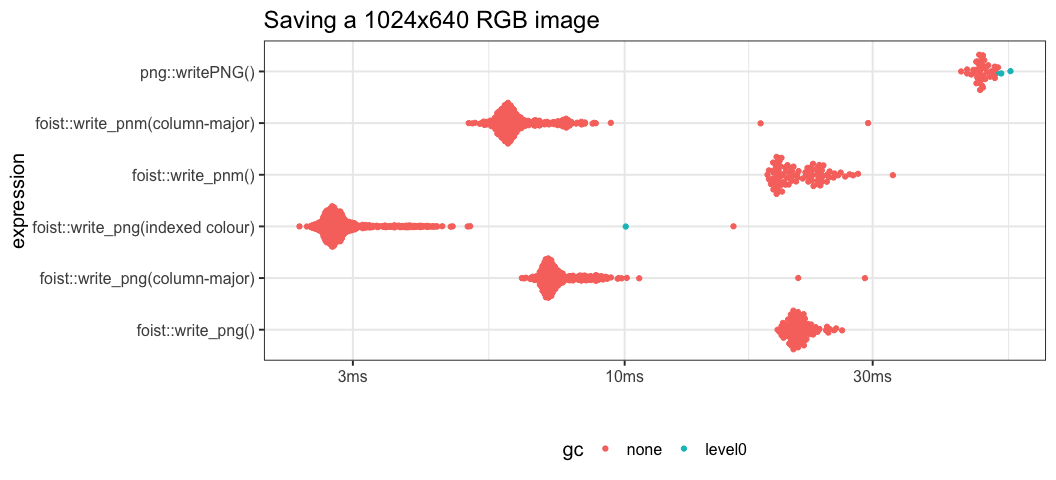
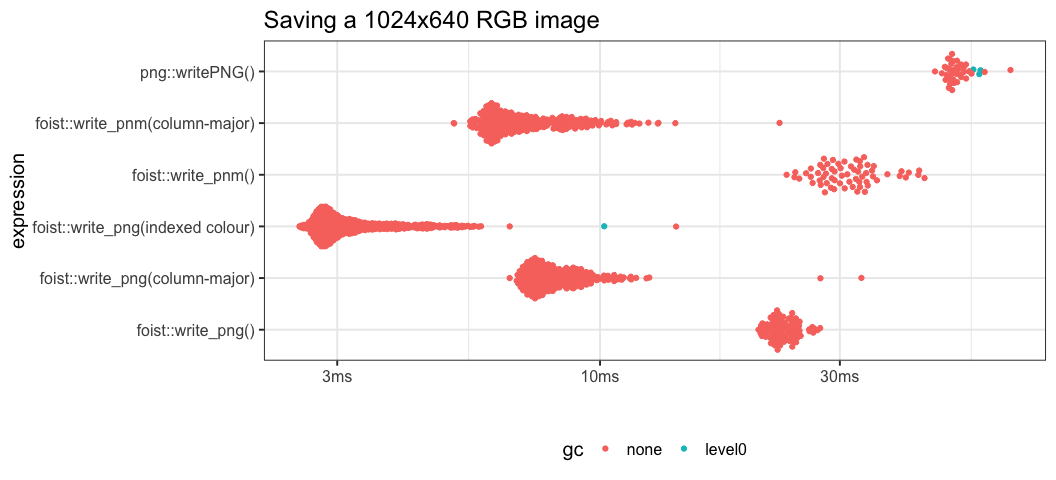
doc fixes

diff --git a/README.md b/README.md
@@ -6,7 +6,7 @@
 <!-- badges: start -->
 
 ![](https://img.shields.io/badge/Status-alpha-orange.svg)
-![](https://img.shields.io/badge/Version-0.1.3-blue.svg)
+![](https://img.shields.io/badge/Version-0.1.5-blue.svg)
 ![](https://img.shields.io/badge/Output-PNG-green.svg)
 ![](https://img.shields.io/badge/Output-PGM-green.svg)
 ![](https://img.shields.io/badge/Output-PPM-green.svg)
@@ -98,6 +98,7 @@ Don’t look at my C/C++ code unless you’d like a heart attack.
     has direct support for indexed colours, whereas for a NETPBM PPM
     file the intensity values need to be explicitly mapped to an RGB
     triplet and then written out in full.
+  - All my benchmark timings are on a machine with an SSD.
 
 ## Installation
 
@@ -159,36 +160,29 @@ write_png(dbl_mat, "man/figures/col-0-t.png", convert_to_row_major = FALSE)
 
 <div>
 
-<img src = "man/figures/col-convert-0-n.png"  width = "25%" title = "Default">
-<img src = "man/figures/col-convert-0-i.png"  width = "25%" title = "invert = TRUE"                style = "margin-left: 1%;" >
-<img src = "man/figures/col-convert-0-f.png"  width = "25%" title = "flipy = TRUE"                 style = "margin-left: 1%;" >
-<img src = "man/figures/col-convert-0-t.png"  width = "16%" title = "convert_to_row_major = TRUE"  style = "margin-left: 1%;" >
+<div style="width: 23%; float: left; margin-left: 1%">
+
+Default <img src = "man/figures/col-convert-0-n.png"  width = "100%">
 
 </div>
 
-<div>
+<div style="width: 23%; float: left; margin-left: 1%">
 
-<div style="float:left; width:25%; margin-left: 1%;">
-
-Default
-
-</div>
-
-<div style="float:left; width:25%; margin-left: 1%;">
-
-Invert Colour
+Invert colour
+<img src = "man/figures/col-convert-0-i.png"  width = "100%">
 
 </div>
 
-<div style="float:left; width:25%; margin-left: 1%;">
+<div style="width: 23%; float: left; margin-left: 1%">
 
-Flip Y
+Flip Y <img src = "man/figures/col-convert-0-f.png"  width = "100%">
 
 </div>
 
-<div style="float:left; width:16%; margin-left: 1%;">
+<div style="width: 23%; float: left; margin-left: 1%">
 
-Output as column-major
+Column-major output
+<img src = "man/figures/col-convert-0-t.png"  width = "62%">
 
 </div>
 
@@ -225,44 +219,35 @@ write_png(dbl_arr, filename = "man/figures/col-1-t.png", convert_to_row_major = 
 
 <div>
 
-<img src = "man/figures/col-convert-1-n.png"  width = "25%">
-<img src = "man/figures/col-convert-1-i.png"  width = "25%" title = "invert = TRUE"                 style = "margin-left: 1%;" >
-<img src = "man/figures/col-convert-1-f.png"  width = "25%" title = "flipy = TRUE"                  style = "margin-left: 1%;" >
-<img src = "man/figures/col-convert-1-t.png"  width = "16%" title = "convert_to_row_major = FALSE"  style = "margin-left: 1%;" >
+<div style="width: 23%; float: left; margin-left: 1%">
+
+Default <img src = "man/figures/col-convert-1-n.png"  width = "100%">
 
 </div>
 
-<div>
+<div style="width: 23%; float: left; margin-left: 1%">
 
-<div style="float:left; width:25%; margin-left: 1%;">
-
-Default
-
-</div>
-
-<div style="float:left; width:25%; margin-left: 1%;">
-
-Invert Colour
+Invert colour
+<img src = "man/figures/col-convert-1-i.png"  width = "100%">
 
 </div>
 
-<div style="float:left; width:25%; margin-left: 1%;">
+<div style="width: 23%; float: left; margin-left: 1%">
 
-Flip Y
+Flip Y <img src = "man/figures/col-convert-1-f.png"  width = "100%">
 
 </div>
 
-<div style="float:left; width:16%; margin-left: 1%;">
+<div style="width: 23%; float: left; margin-left: 1%">
 
-Output as column-major
+Column-major output
+<img src = "man/figures/col-convert-1-t.png"  width = "62%">
 
 </div>
 
 </div>
 
 <div style="clear: both;">
-
-
 
 ## Save a *matrix* to an RGB image using a palette lookup
 
@@ -317,34 +302,34 @@ manipulating the palette of a sequence of image outputs.
 
 <div>
 
-<div style="float:left; width:30%; margin-left: 10px;">
+<div style="width: 31%; float: left; margin-left: 1%">
 
-Reduce colours
-
-</div>
-
-<div style="float:left; width:30%; margin-left: 10px;">
-
-Rotate palette
+Reduce colours <img src = "man/figures/pal-anim1.gif"  width = "100%">
 
 </div>
 
-<div style="float:left; width:30%; margin-left: 10px;">
+<div style="width: 31%; float: left; margin-left: 1%">
 
-Cross-fade between
-palettes
+Rotate palette <img src = "man/figures/pal-anim2.gif"  width = "100%">
+
+</div>
+
+<div style="width: 31%; float: left; margin-left: 1%">
+
+Cross-fade between palettes
+<img src = "man/figures/pal-anim3.gif"  width = "100%">
 
 </div>
 
 </div>
 
-<div>
+<div style="clear: both;">
 
-<img src = "man/figures/pal-anim1.gif" width = "30%" title = "palette reduce">
-<img src = "man/figures/pal-anim2.gif" width = "30%" title = "palette rotate">
-<img src = "man/figures/pal-anim3.gif" width = "30%" title = "palette crossfade">
 
-</div>
+
+
+
+
 
 ## Benchmark: Saving a matrix as a grey image
 
@@ -361,24 +346,26 @@ using:
 tmp <- tempfile()
 
 res <- bench::mark(
-  `foist::write_pnm()`                    = foist::write_pnm(dbl_mat, tmp),
-  `foist::write_pnm(column-major)`        = foist::write_pnm(dbl_mat, tmp, convert_to_row_major = FALSE),
+  `foist::write_pnm()`                         = foist::write_pnm(dbl_mat, tmp),
+  `foist::write_pnm(column-major)`             = foist::write_pnm(dbl_mat, tmp, convert_to_row_major = FALSE),
   
-  `foist::write_png()`                    = foist::write_png(dbl_mat, tmp),
-  `foist::write_png(column-major)`        = foist::write_png(dbl_mat, tmp, convert_to_row_major = FALSE),
+  `foist::write_png()`                         = foist::write_png(dbl_mat, tmp),
+  `foist::write_png(column-major)`             = foist::write_png(dbl_mat, tmp, convert_to_row_major = FALSE),
+  `foist::write_png(column-major:flip:invert)` = foist::write_png(dbl_mat, tmp, convert_to_row_major = FALSE, flipy = TRUE, invert = TRUE),
   
   `png::writePNG()`                       = png::writePNG   (dbl_mat, tmp),
   min_time = 2, check = FALSE
 )
 ```
 
-| expression                      |     min |   mean |  median | itr/sec | mem\_alloc |
-| :------------------------------ | ------: | -----: | ------: | ------: | ---------: |
-| foist::write\_pnm()             |  3.16ms | 4.31ms |  4.13ms |     232 |     2.49KB |
-| foist::write\_pnm(column-major) |   2.2ms | 2.77ms |  2.54ms |     361 |     2.49KB |
-| foist::write\_png()             |  3.54ms | 4.39ms |  4.03ms |     228 |     2.49KB |
-| foist::write\_png(column-major) |   2.3ms | 3.06ms |  2.84ms |     327 |     2.49KB |
-| png::writePNG()                 | 12.36ms | 14.3ms | 14.27ms |      70 |   673.21KB |
+| expression                                  |     min |    mean |  median | itr/sec | mem\_alloc |
+| :------------------------------------------ | ------: | ------: | ------: | ------: | ---------: |
+| foist::write\_pnm()                         |  3.31ms |  4.97ms |  4.65ms |     201 |     2.49KB |
+| foist::write\_pnm(column-major)             |  2.25ms |  3.02ms |  2.71ms |     331 |     2.49KB |
+| foist::write\_png()                         |  3.57ms |  5.46ms |  4.92ms |     183 |     2.49KB |
+| foist::write\_png(column-major)             |  2.46ms |  3.56ms |  3.14ms |     281 |     2.49KB |
+| foist::write\_png(column-major:flip:invert) |  2.56ms |  3.38ms |  3.03ms |     296 |     2.49KB |
+| png::writePNG()                             | 13.38ms | 17.94ms | 17.17ms |      56 |   673.21KB |
 
 Benchmark results
 
@@ -414,12 +401,12 @@ res <- bench::mark(
 
 | expression                        |     min |    mean |  median | itr/sec | mem\_alloc |
 | :-------------------------------- | ------: | ------: | ------: | ------: | ---------: |
-| foist::write\_pnm()               | 18.83ms | 21.91ms | 21.09ms |      46 |     2.49KB |
-| foist::write\_pnm(column-major)   |  5.01ms |   6.4ms |  6.03ms |     156 |     2.49KB |
-| foist::write\_png()               | 19.68ms | 21.75ms | 21.53ms |      46 |     2.49KB |
-| foist::write\_png(column-major)   |  6.34ms |  7.64ms |  7.24ms |     131 |     2.49KB |
-| foist::write\_png(indexed colour) |  2.37ms |  2.91ms |  2.77ms |     344 |     2.49KB |
-| png::writePNG()                   | 44.39ms | 48.66ms | 48.64ms |      21 |     1.88MB |
+| foist::write\_pnm()               |  23.5ms | 31.51ms | 30.86ms |      32 |     2.49KB |
+| foist::write\_pnm(column-major)   |  5.12ms |  7.41ms |  6.75ms |     135 |     2.49KB |
+| foist::write\_png()               | 20.67ms | 23.25ms | 22.98ms |      43 |     2.49KB |
+| foist::write\_png(column-major)   |  6.61ms |  8.46ms |  7.95ms |     118 |     2.49KB |
+| foist::write\_png(indexed colour) |  2.52ms |  3.28ms |  2.98ms |     305 |     2.49KB |
+| png::writePNG()                   | 46.39ms | 51.32ms | 50.44ms |      19 |     1.88MB |
 
 Benchmark results
 
